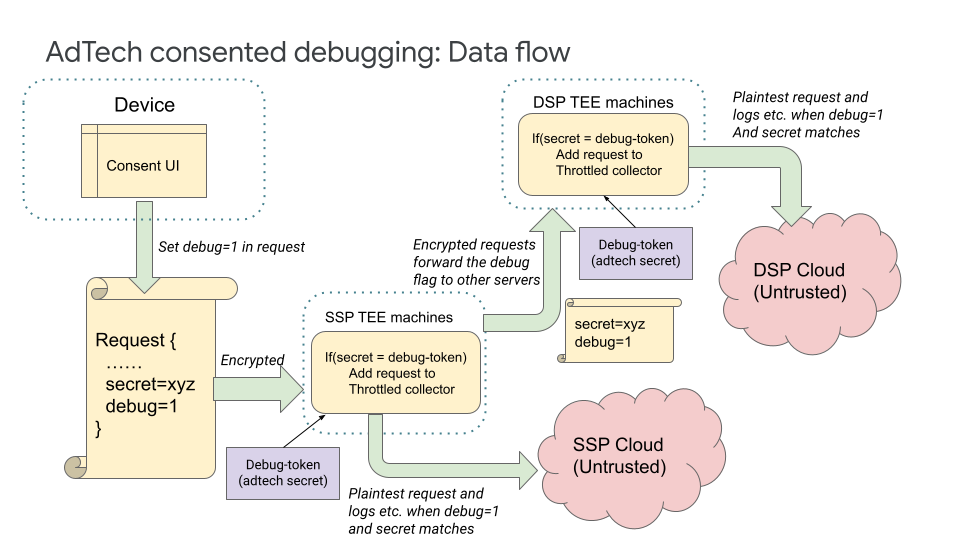
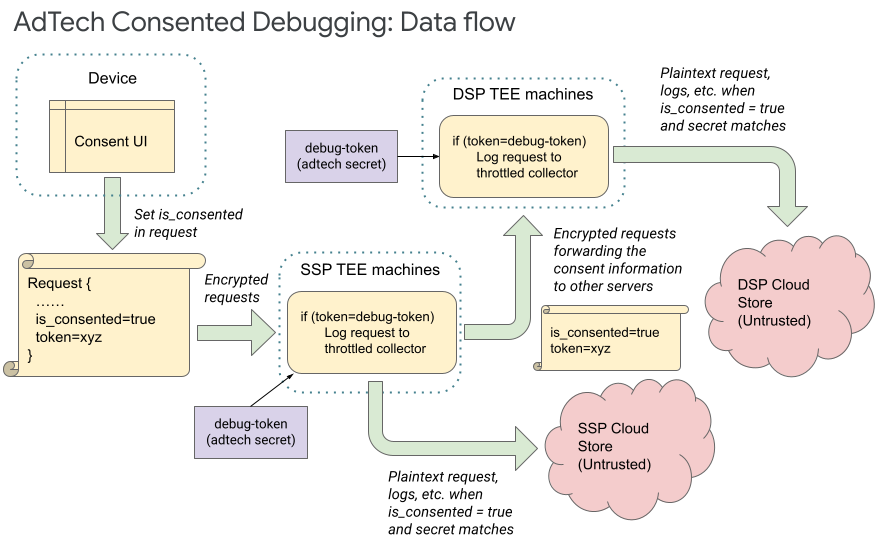
Update debugging_protected_audience_api_services.md

diff --git a/debugging_protected_audience_api_services.md b/debugging_protected_audience_api_services.md
@@ -1,6 +1,9 @@
 ## Debugging Protected Audience API Services
 
-**Authors:** <br> [Akshay Pundle][11], Google Privacy Sandbox
+**Authors:** <br>
+[Akshay Pundle][11], Google Privacy Sandbox <br>
+[Michael Mihn-Jong Lee][12], Google Privacy Sandbox <br>
+[Xing Gao][13], Google Privacy Sandbox
 
 The Protected Audience API ([Android][1], [Chrome][2]) proposes multiple
 real-time services (e.g. [Bidding and Auction][3] and [Key/Value][4] services)
@@ -16,20 +19,21 @@ retaining the privacy characteristics. We introduce three ways for AdTechs to
 debug the system:
 
 - **AdTech consented debugging:** Provides a way for AdTechs to gain access to
-  debugging data and requests that can be replayed on local systems
+    debugging data and requests that can be replayed on local systems
 - **Local, Debug mode:** Provides a way for AdTechs to use standard debugging
-  tools. This can be used along with AdTech consented debugging to replay and
-  debug requests.
+    tools. This can be used along with AdTech consented debugging to replay and
+    debug requests.
 - **Aggregate error reporting:** Provides aggregate error counts for tracking
-  errors in production systems.
+    errors in production systems.
 
 ## AdTech consented debugging
 
-AdTech consented debugging enables AdTechs to get plaintext requests and other
-debugging data from their servers. The Protected Audience API normally protects
-this data and it is not available to the AdTechs, or anyone else other than the
-user who owns the data. This feature is aimed at AdTech developers looking to
-debug the system, and not regular users of the system or API.
+AdTech consented debugging enables AdTechs to get plaintext request and response
+pairs, and other debugging data (e.g., verbose logging messages) from their
+servers. The Protected Audience API normally protects this data and it is not
+available to the AdTechs, or anyone else other than the user who owns the data.
+This feature is aimed at AdTech developers looking to debug the system, and not
+regular users of the system or API.
 
 The main use case here is when an AdTech wants to debug issues, they (the AdTech
 developer) act as the user, and grant consent on their client by initiating a
@@ -38,8 +42,8 @@ data available for debugging. A user (in this case, the AdTech developer) is
 fully in control of their Protected Audience API data, and chooses to make it
 available for debugging; debug reporting will not be provided for requests from
 any users besides those who have enabled this special mode. This consent allows
-the system to collect the request in plaintext and the debug data, and provide
-it to the AdTech.
+the system to collect the request and response pair in plaintext and the debug
+data, and provide it to the AdTech.
 
 The production system collects logs, metrics, plaintext requests and other
 details for such consented requests and makes them available to the AdTech.
@@ -55,22 +59,13 @@ misbehaving code and performance problems. This also means there is no need to
 replicate the entire set of servers involved in serving the Client request,
 since AdTech already has the request their servers were called with.
 
-### Client side changes for consent
-
-We will add ways for the AdTech developer to give consent in Chrome and Android
-to make data from their client available for debugging. Care will be taken to
-prevent abuse of the setting. The details are being designed and this explainer
-will be updated to reflect them in the future. Note that this feature is
-targeted at the AdTech developers, not the general Chrome or Android user.
-
 ### Data flow
 
 When an AdTech wants to reproduce a problem, they will start Chrome or Android
 and give consent via the UI. This will enable the system to collect debug data.
 While giving consent, the AdTech developer will also need to provide a secret
-debug-token known only to the AdTech. This will help ensure that the set of
-debug requests is only available for debugging on that particular AdTech's
-servers.
+debug-token known only to the AdTech. This will ensure that the set of consented
+requests is only available for debugging on that particular AdTech's servers.
 
 ![Data flow](images/debugging_protected_audience_api_services_data_flow.png)
 
@@ -78,34 +73,72 @@ Subsequent Protected Audience API requests from this client will include the
 consent and the secret debug-token in request to Protected Audience API servers.
 Consent and the secret debug-token will be encrypted as part of the request
 (request internals are not visible outside the TEE servers). If the server calls
-other servers, consent will propagate to all Protected Audience API TEE servers
-involved.
+other servers, the consent information will propagate to all Protected Audience
+API TEE servers involved.
 
 The AdTech will provide each Protected Audience API server the secret
 debug-token at startup. Upon receiving the request, the server will match the
 secret debug-token from the request with the secret debug-token it was started
-with. If the tokens match, the server will treat the request as a debug request.
-Otherwise the request will be treated as a normal request. The consent will be
-propagated to other Protected Audience API TEE servers in either case (whether
-the request is treated as debug or otherwise)
+with. If the tokens match, the server will treat the request as a consented
+request. Otherwise the request will be treated as a normal request. The consent
+will be propagated to other Protected Audience API TEE servers in either case
+(whether the request is treated as consented or otherwise)
 
-When a server determines a request to be a consented debug request, it will
-collect logs, granular metrics and the plaintext request. These will be
-published to the AdTech's cloud store, where they can access this information.
-Publishing this will happen through [OpenTelemetry][7] and will use the same
-channels as mentioned in the [Monitoring Protected Audience API Services][6]
-document. Privacy impacting metrics that are usually exported with noise will be
-published without noise for debug consented requests.
+When a server determines a request to be consented, it will collect logs,
+granular metrics and the plaintext request and response. These will be published
+to the AdTech's cloud store, where they can access this information. Publishing
+this will happen through [OpenTelemetry][7] and will use the same channels as
+mentioned in the [Monitoring Protected Audience API Services][6] document.
+Privacy impacting metrics that are usually exported with noise will be published
+without noise for consented requests.
 
 ### Reasons for using a secret debug-token
 
-- A secret debug-token helps filter out requests originating from other AdTechs
-  who may be debugging at the same time. This prevents intentional or
-  unintentional spam that would have made it difficult to isolate requests that
-  were sent by that particular AdTech.
+- A secret debug-token helps filter out requests originating from other
+    AdTechs who may be debugging at the same time. This prevents intentional or
+    unintentional spam that would have made it difficult to isolate requests
+    that were sent by that particular AdTech.
 - Without effective filtering, the associated cloud storage for an AdTech may
-  get filled with requests from other AdTechs, even though they didn't do any
-  debugging.
+    get filled with requests from other AdTechs, even though they didn't do any
+    debugging.
+
+### Provide Consent
+
+AdTech developers can give consent in Chrome and Android to make data from their
+client available for debugging. Care will be taken to prevent abuse of the
+setting. Note that this feature is targeted at the AdTech developers, not the
+general Chrome or Android user.
+
+- Chrome: AdTech can provide the consent at
+    `chrome://flags#protected-audience-debug-token` with a debug token.
+
+![Chrome UI](images/debugging_protected_audience_api_services_chrome_ui.png)
+
+- Android: The details are being designed and this explainer will be updated
+    in the future.
+
+### Configure TEE Servers
+
+To enable the AdTech consented debugging, every Protected Audience API TEE
+server should run with the following runtime flags:
+
+```
+ENABLE_OTEL_BASED_LOGGING = "true"
+CONSENTED_DEBUG_TOKEN = "secret debug token"
+```
+
+The value of `CONSENTED_DEBUG_TOKEN` should match the debug token set in the
+device. The value must be a non-empty string.
+
+### Access Debug Data
+
+The debug data is stored in AdTech's cloud store. Here's the snapshot from the
+GCP Logs Explorer.
+
+![GCP Logs Explorer](images/debugging_protected_audience_api_services_gcp_logs_explorer.png)
+
+Currently, the plaintext request and response pairs are available. Verbose
+logging messages and metrics will be available soon.
 
 ## Local debugging and Debug mode
 
@@ -137,26 +170,26 @@ debug mode.
 We will provide cumulative error counts per server. These will include request
 level and system errors. We will not support errors directly originating from
 AdTech provided javascript execution due to security reasons. Aggregate errors
-will also be published using [OpenTelemetry][7] as mentioned in [Monitoring
-Protected Audience API Services][6]. Error counts may also be noised depending on
-the source of the error. For consented debug requests, the true error counts
-will be reported without noise.
+will also be published using [OpenTelemetry][7] as mentioned in
+[Monitoring Protected Audience API Services][6]. Error counts may also be noised
+depending on the source of the error. For consented debug requests, the true
+error counts will be reported without noise.
 
 The following errors will be available for tracking:
 
 - **Number of Requests responded:** The number of requests that were not
-  processed successfully and resulted in error.
+    processed successfully and resulted in error.
 - **Number of Requests responded with error, partitioned by type of error:**
-  Similar to the above metric, but the data will be at the gRPC status
-  granularity.
+    Similar to the above metric, but the data will be at the gRPC status
+    granularity.
 - **Number of requests initiated by this server that resulted in an error,
-  partitioned by type of error:** This will count the number of errors that
-  happened in requests initiated by the server (available at gRPC status
-  granularity). E.g. for SFE, this would include errors that occurred when
-  calling BFE servers.
+    partitioned by type of error:** This will count the number of errors that
+    happened in requests initiated by the server (available at gRPC status
+    granularity). E.g. for SFE, this would include errors that occurred when
+    calling BFE servers.
 - **Number of requests initiated by this server that resulted in an error,
-  partitioned by destination:** Similar to the above, but partitioned by the
-  request destination.
+    partitioned by destination:** Similar to the above, but partitioned by the
+    request destination.
 
 [1]: https://developer.android.com/design-for-safety/ads/fledge
 [2]: https://developer.chrome.com/docs/privacy-sandbox/fledge/
@@ -169,3 +202,5 @@ The following errors will be available for tracking:
 [9]: https://github.com/privacysandbox/fledge-key-value-service/blob/main/docs/deploying_locally.md
 [10]: https://github.com/privacysandbox/fledge-docs/blob/main/trusted_services_overview.md#key-management-systems
 [11]: https://github.com/akshaypundle
+[12]: https://github.com/mihnjong-l
+[13]: https://github.com/xinggao01
